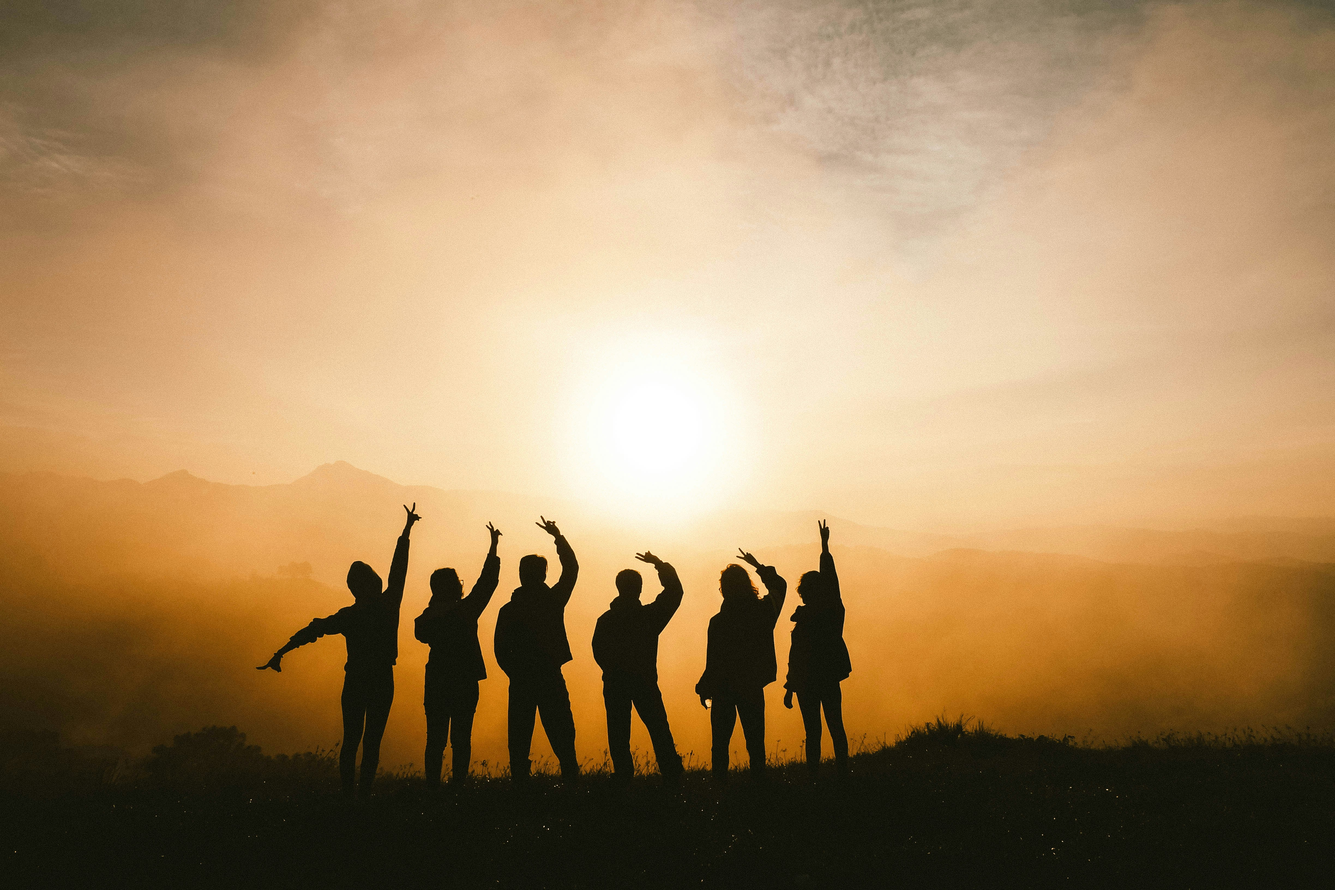
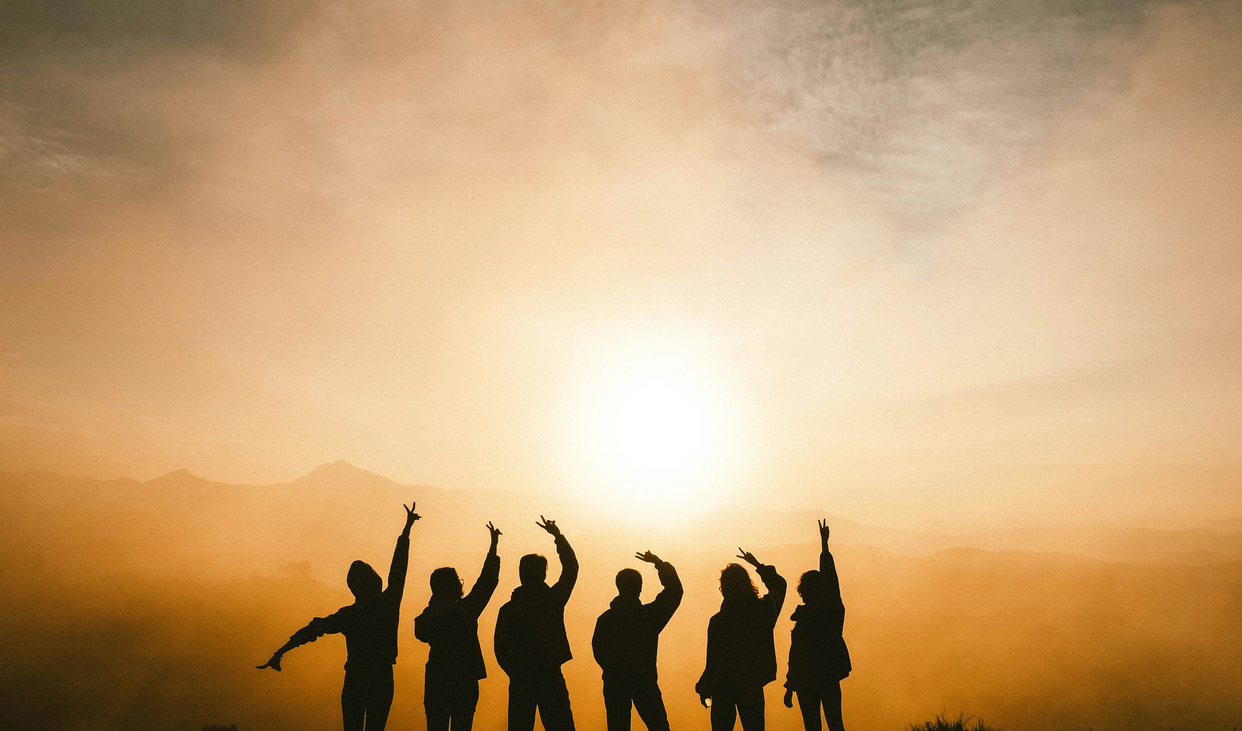
Contact page ui bug fixed

diff --git a/src/app/component/home/Header.jsx b/src/app/component/home/Header.jsx
@@ -11,9 +11,9 @@ const Header = () => {
         backgroundImage: `linear-gradient(to right, #3E0065CC, #3E006500),url('/HomePageHeader.jpg')`,
 
         backgroundSize: 'cover',
-        backgroundPosition: 'top',
+        backgroundPosition: 'bottom',
       }}
-      className="py-[187px] relative  md:pt-[238px]  lg:py-[203px] px-5 md:px-[60px]"
+      className="py-[187px] relative  md:pt-[238px]   lg:py-[253px] px-5 md:px-[60px]"
     >
       <div className="w-full relative z-10  mx-auto text-center">
         <h1 className="font-medium tracking-[-4%] leading-[120%] text-5xl  lg:text-[68px] text-[#FCFCFD]">
